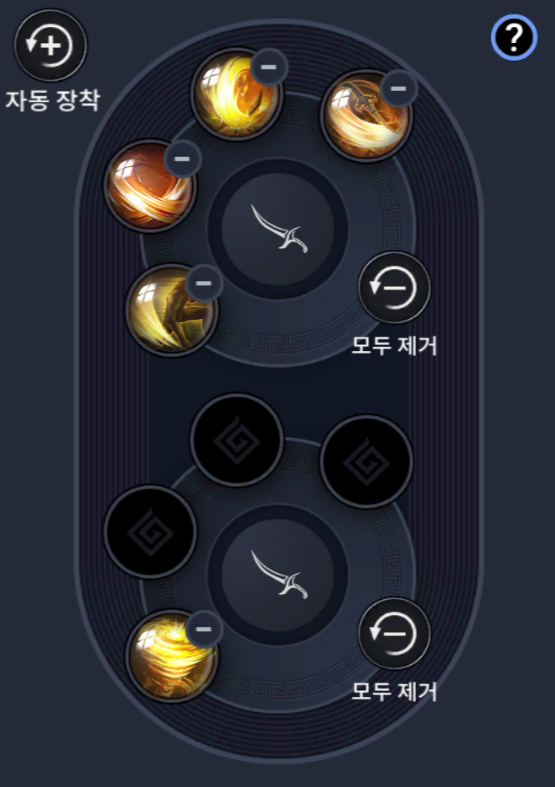
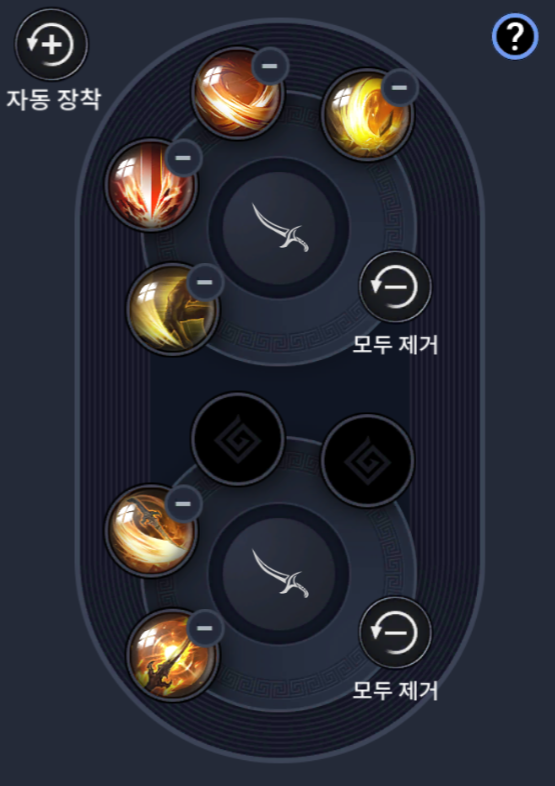
3

diff --git a/index.html b/index.html
@@ -15,7 +15,7 @@
 
             <div class="box">
                 <div class="name">자동사냥</div>
-                <div class="name">(쉬운)</div>  
+                <div class="name">(기본)</div>  
                 <div class="skill_img_template">
                     <img class="auto_skill" src="auto_skill.png" />
                 </div>
@@ -31,15 +31,21 @@
 
             <div class="box">
                 <div class="name">pvp</div>
-                <div class="name">(투기장,필드)</div>
+                <div class="name">(필드)</div>
                 <div class="skill_img_template">
                     <img class="auto_skill" src="auto_skill_pvp.png" />
                 </div>
             </div>
+            <div class="box">
+                <div class="name">pvp</div>
+                <div class="name">(투기장)</div>
+                <div class="skill_img_template">
+                    <img class="auto_skill" src="auto_skill_pvp2.png" />
+                </div>
+            </div>
 
         </div>
-        <div class="name">정보 참고 - <a href="https://www.youtube.com/watch?v=MuBxuBAj9Bo"> YouTube 별튜브 [채널로 이동]</a></div>
-        <div class="name">정보 제공 - 가문명 : 꼬컨 / 서버 : 카란다</div>
+        <div class="name">정보 제공 - <a href="https://www.youtube.com/watch?v=Yb-UZQR1vu4"> YouTube 검은사막스텝 [채널로 이동]</a></div>
     </div>
 </body>
 </html>
